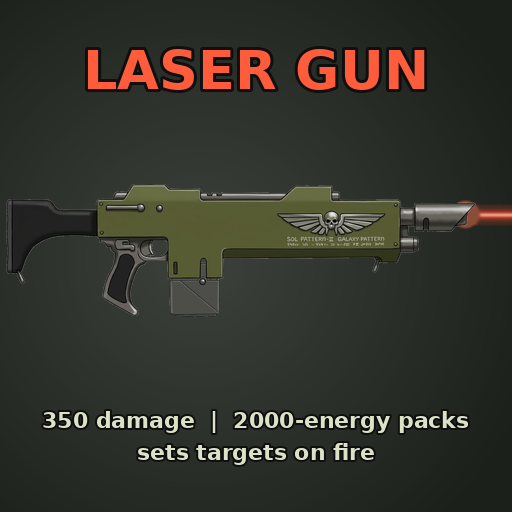
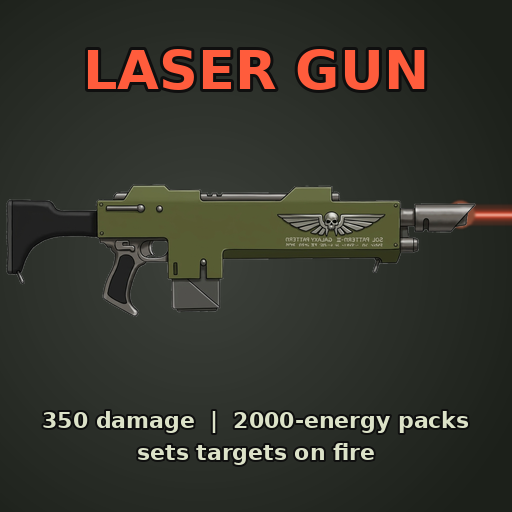
Cover uses the user's picture of the rifle with its pack
Claude-Session: https://claude.ai/code/session_01PqPi8SRqyZdJEsWyYG1nUx

diff --git a/tools/make_cover.py b/tools/make_cover.py
@@ -9,16 +9,20 @@ PACK_CENTRE = (154.5 - 37.75, 73 + 32)  # sprite canvas px (matches Battery.Pack
 PACK_H_W = 26                   # the pack's height is that of a 26 px wide pack...
 PACK_W = 26 * 1.12              # ...drawn 12% wider (BatteryPackWidth)
 
-def pack_cutout():
-    img = cv2.imread(os.path.join(REPO, "art-src", "laser-battery-pack-reference.png")); h, w = img.shape[:2]
+def cutout(name):
+    img = cv2.imread(os.path.join(REPO, "art-src", name)); h, w = img.shape[:2]
     white = (img.min(axis=2) > 232).astype(np.uint8)
     n, lab = cv2.connectedComponents(white); bg = np.zeros_like(white)
     for i in range(1, n):
         ys, xs = np.nonzero(lab == i)
         if ys.min() == 0 or xs.min() == 0 or ys.max() == h - 1 or xs.max() == w - 1: bg |= (lab == i).astype(np.uint8)
+        # enclosed paper-white holes (inside the trigger guard) are background too
+        elif len(ys) > 150 and np.median(img[ys, xs]) > 244: bg |= (lab == i).astype(np.uint8)
     a = cv2.GaussianBlur(((1 - bg) * 255).astype(np.float32), (0, 0), 0.7).clip(0, 255).astype(np.uint8)
     im = Image.fromarray(np.dstack([img[..., ::-1], a]), "RGBA")
     return im.crop(im.getbbox())
+
+def pack_cutout(): return cutout("laser-battery-pack-reference.png")
 
 def gun_with_pack():
     gun = Image.open(os.path.join(REPO, "art-src", "laser-rifle-clean.png"))
@@ -33,10 +37,11 @@ def gun_with_pack():
     return out
 
 def main():
-    full = gun_with_pack()
+    # The cover uses the user's own picture of the rifle with its pack fitted (art-src/laser-rifle-cover-reference.png).
+    full = cutout("laser-rifle-cover-reference.png")
     a = np.array(full)[..., 3]; xr = np.nonzero(a.max(0) > 128)[0].max()
     # the emitter face sits a little behind the tip of the slanted hood: start the beam there, mid-barrel
-    xr -= 40; ys = np.nonzero(a[:, xr - 10:xr].max(1) > 128)[0]; ys = ys[ys < a.shape[0] * 0.5]; my = (ys.min() + ys.max()) / 2
+    xr -= 60; ys = np.nonzero(a[:, xr - 10:xr].max(1) > 128)[0]; ys = ys[ys < a.shape[0] * 0.5]; my = (ys.min() + ys.max()) / 2
     W = 512; out = Image.new("RGBA", (W, W), (28, 32, 26, 255)); g = ImageDraw.Draw(out)
     for r in range(360, 0, -6):
         k = int(34 * (1 - r / 360)); g.ellipse([200 - r, 260 - r, 200 + r, 260 + r], fill=(28 + k, 32 + k, 26 + k, 255))
@@ -51,8 +56,6 @@ def main():
     g.text((W // 2, 70), "LASER GUN", font=f, fill=(255, 92, 60, 255), anchor="mm", stroke_width=3, stroke_fill=(15, 15, 15, 255))
     g.text((W // 2, 420), "350 damage  |  2000-energy packs", font=f2, fill=(220, 226, 200, 255), anchor="mm", stroke_width=2, stroke_fill=(15, 15, 15, 255))
     g.text((W // 2, 452), "sets targets on fire", font=f2, fill=(220, 226, 200, 255), anchor="mm", stroke_width=2, stroke_fill=(15, 15, 15, 255))
-    # the gun faces right, which mirrors the small lettering under the emblem: flip that strip back so it reads
-    box = (284, 236, 386, 247); out.paste(out.crop(box).transpose(Image.FLIP_LEFT_RIGHT), box)
     out.convert("RGB").save(os.path.join(REPO, "workshop", "preview.png"))
     # also a check render of the in-game sprite with the pack (4x)
     sp = Image.open(os.path.join(REPO, "items", "RangedWeapons", "rifle", "sprite.png"))
